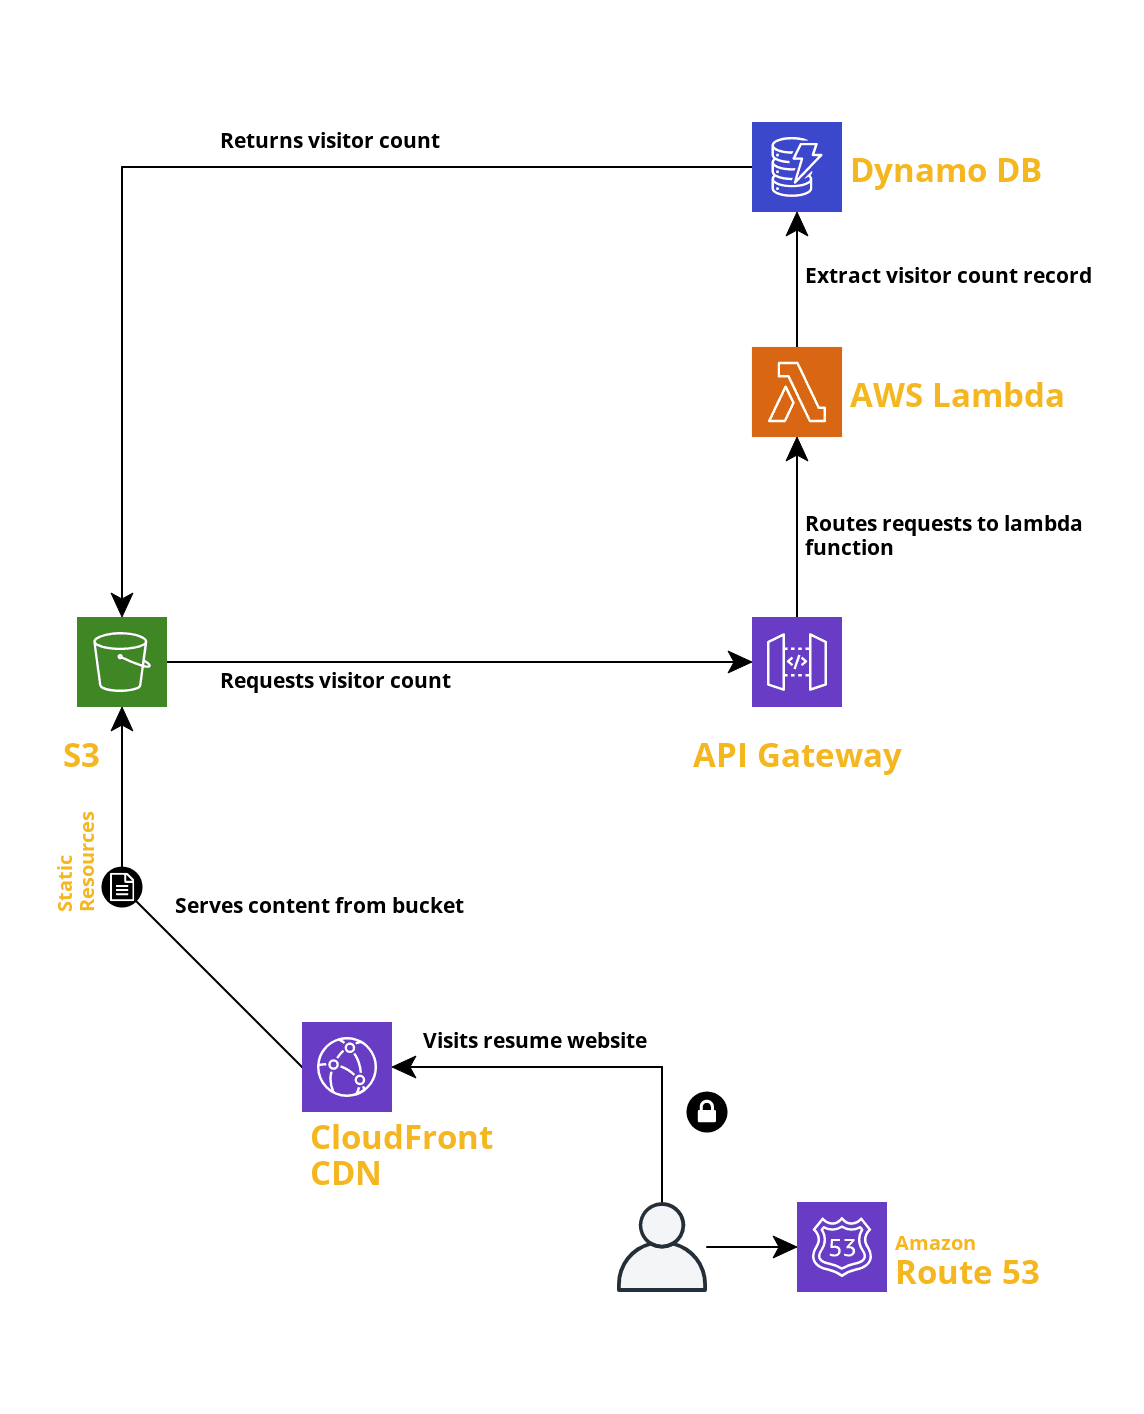
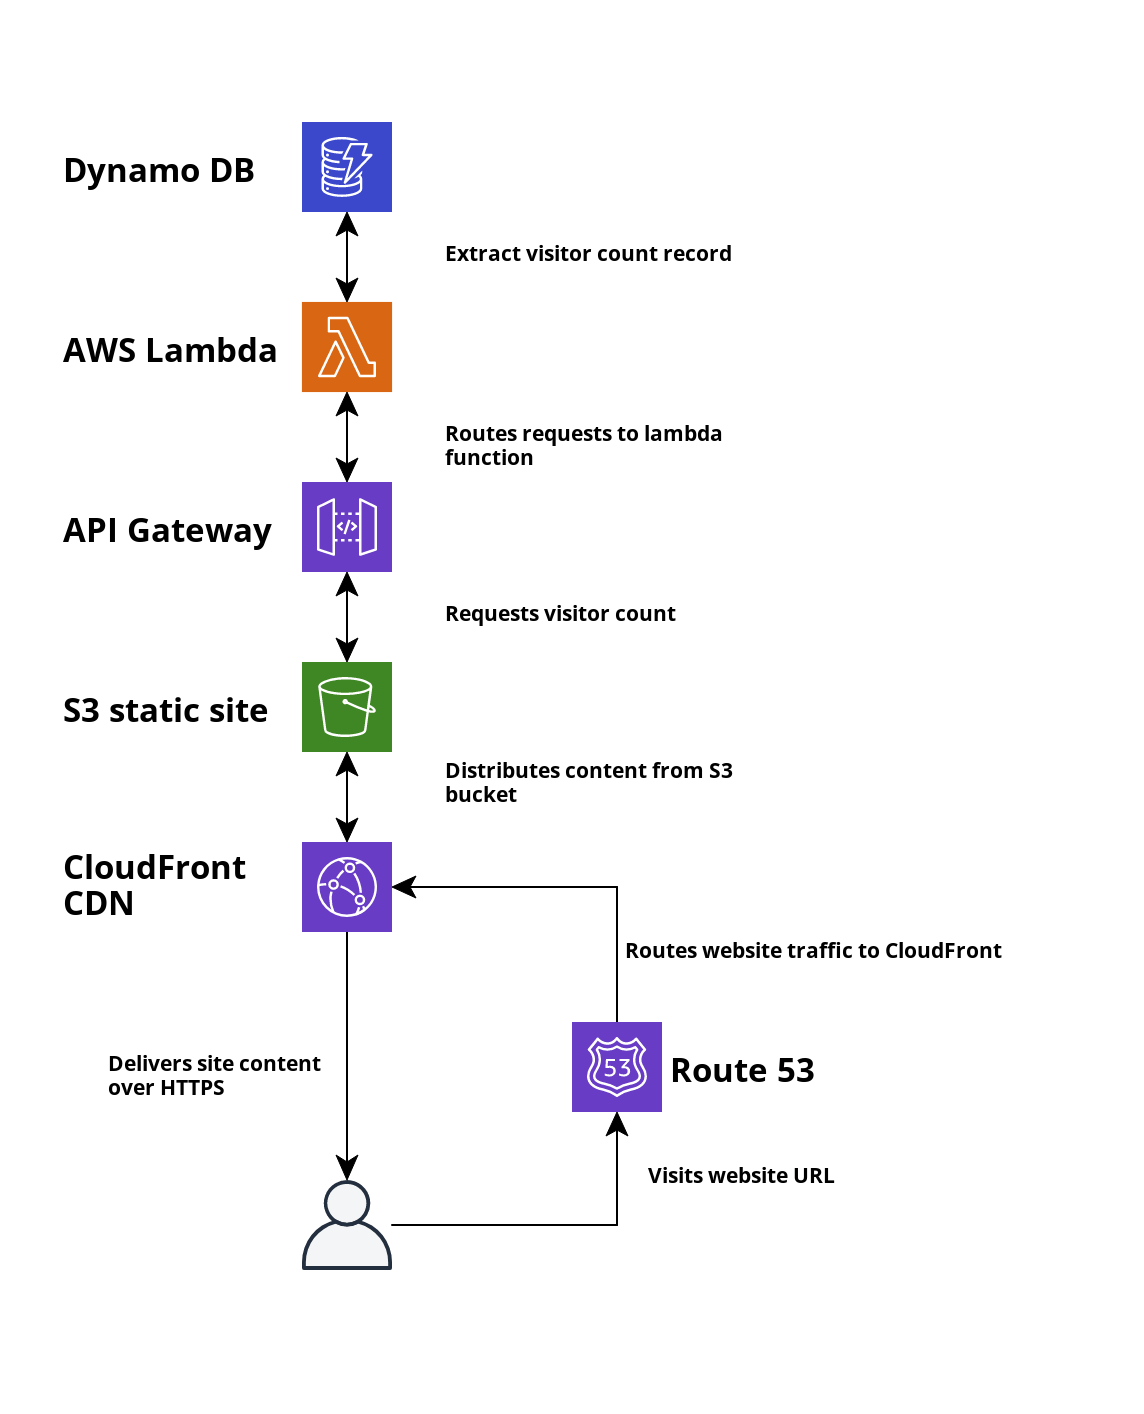
Update README, architecture diagram and resume webpage

diff --git a/Webpage/src/index.html b/Webpage/src/index.html
@@ -5,7 +5,7 @@
     <title>One Page Resume</title>
     <meta charset="UTF-8"/>
     <meta name="viewport" content="width=device-width, initial-scale=1">
-    <title>Develop a single page HTML resume using Bootstrap 5</title>
+    <title>Single page HTML resume hosted on AWS</title>
     <link rel='stylesheet' href='https://cdnjs.cloudflare.com/ajax/libs/mdb-ui-kit/3.10.0/mdb.min.css'>
     <link rel="stylesheet" href="assets/css/style.css">
     <script src="assets/javascript/counter.js" defer></script>
@@ -170,12 +170,11 @@
             </div>
             <div class="row mb-4 mx-auto">
                 <h2 class="mb-5">Recent Project</h2>
-                <h6 class="text-primary">Cloud Resume Challenge</h6>
+                <h6 class="text-primary">Cloud Resume Website</h6>
                 <ul>
-                    <li>TBD</li>
-                    <li>TBD</li>
-                    <li>TBD</li>
-                    <li>TBD</li>
+                    <li>Designed automated provisioning infrastructure to host site on AWS with Terraform</li>
+                    <li>Implemented counter to track visits to the site using DynamoDB, Lambda and API Gateway </li>
+                    <li>Enforced HTTPS connection and accelerated content delivery to the site using CloudFront</li>
                 </ul>
             </div>
         </div>

diff --git a/README.md b/README.md
@@ -1,0 +1,73 @@
+##About:
+This repo contains the code to provision my Cloud Resume Website at [https://www.ikkidev.com](https://www.ikkidev.com) 
+inspired by the [Cloud Resume Challenge](https://cloudresumechallenge.dev/docs/the-challenge/aws/). I have a more 
+detailed write-up on my journey with the challenge up on my blog: [https://miraclecoder.com](https://miraclecoder.com/). 
+All the AWS services that I used for hosting my website on AWS is recorded on the architecture diagram below:
+![architecture diagram](Cloud_Resume_Architecture_Diagram.png)
+
+##Prerequisite:
+1. AWS account to provision resources. I use [awsume](https://awsu.me) to manage my aws profile configurations
+   ``` 
+    To assume a profile simply do
+        awsume dev
+        awsume admin-prod-role
+
+    To configure an aws profile
+        aws configure --profile dev
+
+    To list all available profiles
+        awsume --list-profiles
+    ```
+   
+2. S3 bucket to store terraform remote state must have been created beforehand
+following the name in the [tfbackend file](terraform-cloud-resume/env/dev.s3.tfbackend)
+
+3. Domain name for hosting the website.
+
+##Manual Provisioning:  
+Environment files are defined in the [env directory](terraform-cloud-resume/env).
+This is where I centralize all the variables that are critical to the different terraform modules. 
+such as the name of the S3 bucket where the website is hosted.
+
+To provision a module simply run from the module directory:  
+- cd terraform-cloud-resume\modules\dynamodb
+- terraform apply -var-file="..\..\env\dev.tfvars"
+
+To provision the entire AWS resources for the cloud resume website run:  
+- cd terraform-cloud-resume
+- run terraform init -reconfigure -backend-config="env\dev.s3.tfbackend"
+- terraform apply -var-file="env\dev.tfvars"
+
+##Testing:
+To invoke the lambda manually:
+- aws lambda invoke --region=us-east-1 --function-name=$(terraform
+  output -raw lambda_function_name) response.json  
+```
+{
+    "StatusCode": 200,
+    "ExecutedVersion": "$LATEST"
+}
+```
+- cat response.json  
+```
+{
+   "statusCode": 200, 
+   "body": "{\"visitor_count\": 1}"
+}
+```
+
+To invoke the API gateway endpoint manually:
+- curl "$(terraform output -raw apigateway_base_url)/api/v1/visitor
+   _count"  
+```
+    StatusCode        : 200
+    StatusDescription : OK
+    Content           : {"visitor_count": 3}
+```
+
+##Builds Provisioning:
+This project makes use of github action workflow to automatically provision all the resources for the website on AWS.
+on a code change to the default branch on this repo.
+AWS access for the github action builds are controlled through the use of IAM roles instead of security credentials per  
+security best practices.
+
